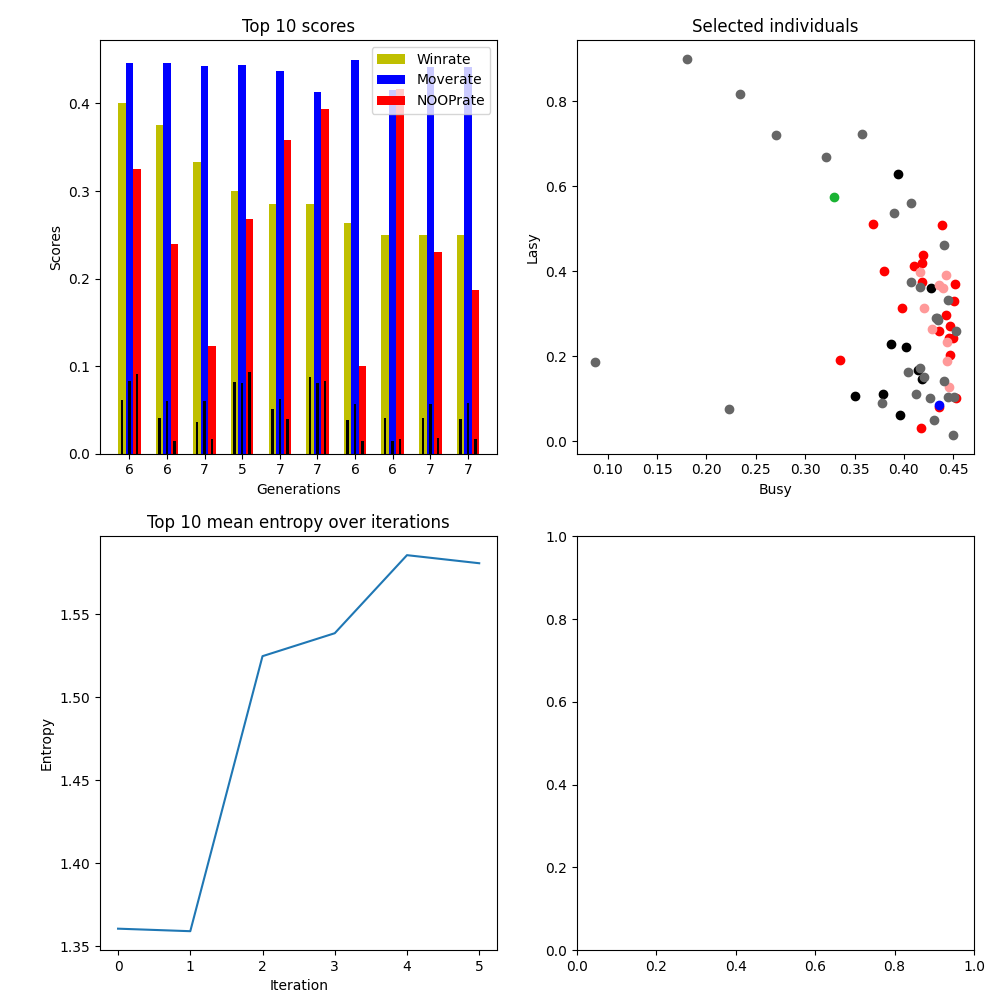
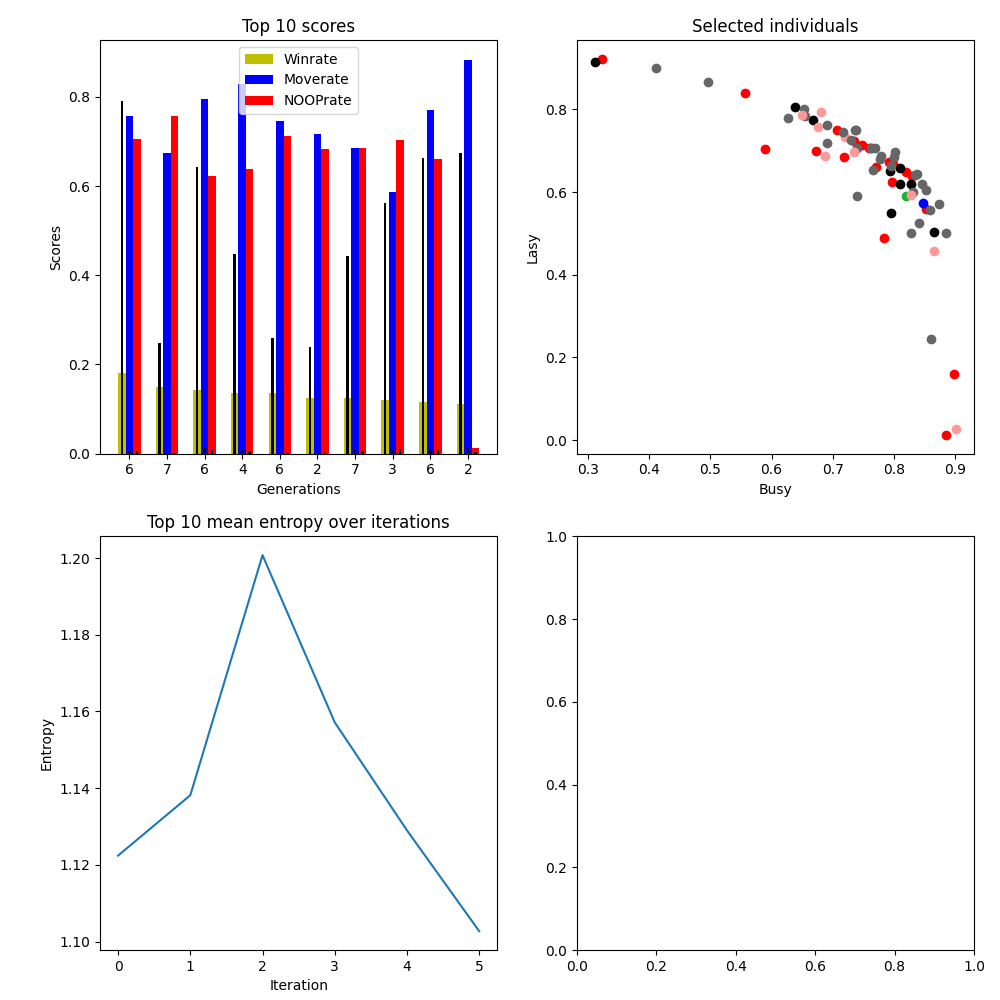
3-16

diff --git a/evolution_server.py b/evolution_server.py
@@ -182,7 +182,6 @@ class EvolutionServer:
         }
         frame_count = 0
         n_games = 0
-        last_pos = [0.0, 0.0]
         actions = [0] * 6
         dist = np.zeros((self.action_dim,), dtype=np.float32)
         while frame_count < max_frame:
@@ -193,6 +192,8 @@ class EvolutionServer:
                 action, dist_ = player.pi.policy.get_action(observation, return_dist=True, eval=True)
                 dist += dist_
                 actions[action] += 1
+                observation_, reward, done, info = self.env.step(action) # players pad only moves every two frames
+                last_pos = observation_[51]
                 observation_, reward, done, info = self.env.step(action)
                 observation_ = self.util.preprocess(observation_)
                 observation = np.concatenate([observation[len(observation)//2:],observation_])
@@ -200,12 +201,11 @@ class EvolutionServer:
                 if reward < 0:
                     r['total_punition'] += reward
                 r['no_op_rate'] += int(self.util.is_no_op(action))
-                distance_moved = self.util.pad_move(observation_, last_pos.pop(0))
+                distance_moved = self.util.pad_move(observation_, last_pos)
 
                 moved = int(distance_moved > 0)
 
                 r['move_rate'] += moved
-                last_pos.append(observation_[4])
 
                 frame_count += 1
             if done:
@@ -222,7 +222,6 @@ class EvolutionServer:
 
     def play(self, player: Individual, max_frame, observation=None):
         n_games = 0
-        last_pos = [0.0, 0.0]
         last_score_delta = 0
         actions = [0]*6
 
@@ -233,12 +232,13 @@ class EvolutionServer:
         for frame_count in range(max_frame):
             action = player.pi.policy.get_action(observation)
             actions[action] += 1
+            observation_, reward, done, info = self.env.step(action) # players pad only moves every two frames
+            last_pos = observation_[51]
             observation_, reward, done, info = self.env.step(action)
             observation_ = self.util.preprocess(observation_)
-            distance_moved = self.util.pad_move(observation_, last_pos.pop(0))
+            distance_moved = self.util.pad_move(observation_, last_pos)
 
             moved = int(distance_moved > 0)
-            last_pos.append(observation_[4])
             delta_score = self.util.score_delta(observation_)
             # win = delta_score - last_score_delta
             # last_score_delta = delta_score
